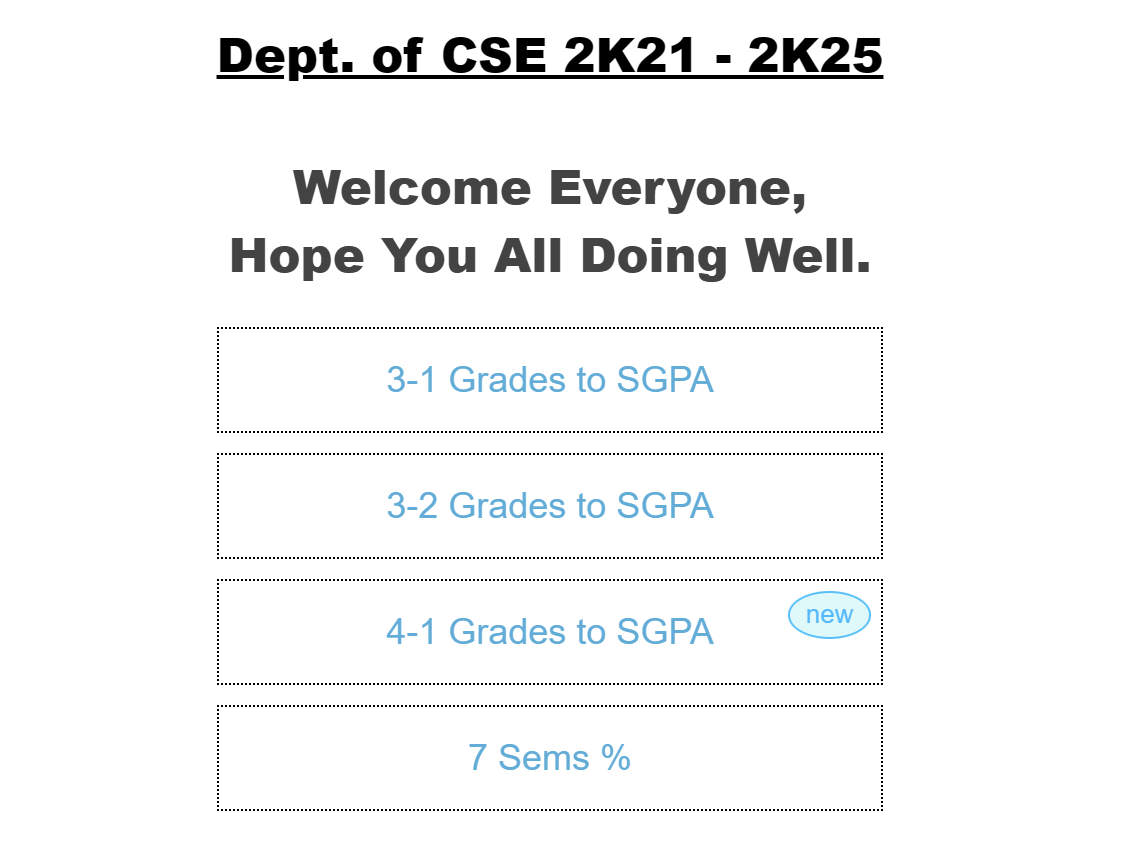
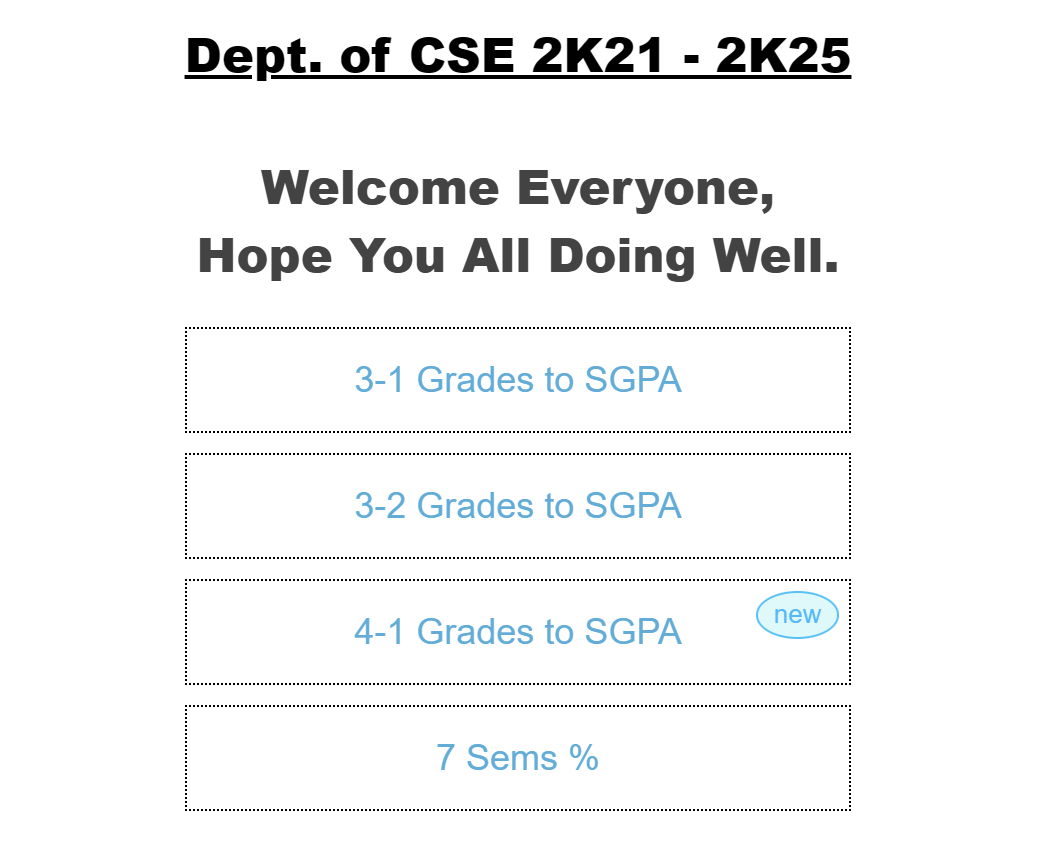
title moves to top

diff --git a/index.css b/index.css
@@ -27,7 +27,7 @@
     top: 0;
     z-index: 1000;
 
-    /* height: 17vh; */
+    height: 10vh;
 }
 
 .header .logo-img {
@@ -51,8 +51,7 @@ a {
 }
 
 .cover80 {
-    /* height: 96vh; */
-
+    height: 100vh;
     padding-block: 4rem;
 }
 
@@ -162,11 +161,23 @@ a {
     font-weight: bold;
 }
 
-.links-section .linkedin-link {
+.links-section .linkedin-link,
+.facebook-link {
     color: rgb(14, 89, 229);
 }
 
-.links-section .linkedin-link:hover {
+.links-section .instagram-link {
+    color: rgb(205, 2, 120);
+}
+
+.links-section .instagram-link:hover {
+    border-color: rgb(205, 2, 120);
+    background-color: rgb(205, 2, 120);
+    color: white;
+}
+
+.links-section .linkedin-link:hover,
+.facebook-link:hover {
     border-color: rgb(14, 89, 229);
     background-color: rgb(14, 89, 229);
     color: white;
@@ -430,6 +441,7 @@ a {
     justify-content: center;
     flex-direction: column;
 }
+
 .projects .project-cards {
     display: flex;
     flex-wrap: wrap;
@@ -438,15 +450,16 @@ a {
 }
 
 .projects .project-cards .projectCard {
-    border: 1px solid rgb(232, 231, 231);    
-    width: 300px;
-   
+    border: 1px solid rgb(232, 231, 231);
+    width: 350px;
     margin: 1rem;
-    padding: 0.5rem;
+    padding: 1rem 0.5rem 1.5rem 0.5rem;
+    box-shadow: 0 8px 30px rgba(0, 0, 0, 0.2);
 }
 
 .projectCard .img-wrapper {
     max-width: 300px;
+    margin-inline: auto;
     /* border: 1px solid red; */
 }
 
@@ -457,25 +470,43 @@ a {
 .projectCard .title {
     text-align: center;
     /* border: 1px solid rebeccapurple; */
-
+    font-size: large;
+    font-weight: 900;
     margin-block-end: 0.5rem;
     padding: 0.5rem;
-} 
+    color: saddlebrown;
+}
 
 .projectCard .links-wrapper {
     /* border: 1px solid red; */
     display: flex;
     align-items: center;
-    justify-content: space-evenly;
-  
+    justify-content: center;
+    margin-block-start: 1rem;
+
 }
 
 .projectCard .links-wrapper .link {
-    border: 1px dotted rgb(181, 179, 179);
-   padding-block: 0.3rem;
-   padding-inline: 1.2rem;
-    
-   
+    border: 0.5px solid black;
+    padding-block: 0.4rem;
+    padding-inline: 2rem;
+    font-weight: 700;
+}
+
+
+.projectCard .links-wrapper .live-btn:hover {
+    background-color: black;
+    color: white;
+}
+
+.projectCard .links-wrapper .github-btn {
+    background-color: rgb(0, 0, 0);
+    color: white;
+}
+
+.projectCard .links-wrapper .github-btn:hover {
+    background-color: white;
+    color: black;
 }
 
 

diff --git a/src/UIComponents/projectCard.js b/src/UIComponents/projectCard.js
@@ -1,26 +1,27 @@
 import gradeConverterImg from "../../assets/proj-gpaConverter.png";
 import todoListImg from "../../assets/proj-todoList.png";
+// import portfolioImg from "../../assets/proj-portfolio.png";
 import portfolioImg from "../../assets/proj-portfolio.png";
 
 
 export const projectList = [{
     index: 1,
     imgUrl: gradeConverterImg,
-    title: "GPA Converter",
+    title: "GPA CONVERTER",
     liveUrl: "https://uma03.netlify.app/",
     githubUrl: "https://github.com/umanagendrakumar/5thSemester-Grade-to-SGPA"
 },
 {
     index: 2,
     imgUrl: todoListImg,
-    title: "To-Do List With Bin",
+    title: "T0-DO LIST WITH BIN",
     liveUrl: "https://uma-todolist.netlify.app/",
     githubUrl: "https://github.com/umanagendrakumar/Todo_List"
 },
 {
     index: 3,
     imgUrl: portfolioImg,
-    title: "My Portfolio",
+    title: "MY PORTFOLIO",
     liveUrl: "https://kunk-portfolio.netlify.app/",
     githubUrl: "https://github.com/umanagendrakumar/MyPortfolio"
 }
@@ -30,13 +31,13 @@ export const projectList = [{
 const Card = ({ imgUrl, title, liveUrl, githubUrl }) => {
     return (
         <div className="projectCard">
+            <div className="title">{title}</div>
             <div className="img-wrapper">
                 <img src={imgUrl} className="img" alt="Project image"></img>
             </div>
-            <div className="title">{title}</div>
             <div className="links-wrapper">
-                <a href={liveUrl} className="link live-btn">Live</a>
-                <a href={githubUrl} className="link github-btn">Github</a>
+                <a href={liveUrl} className="link live-btn">LIVE</a>
+                <a href={githubUrl} className="link github-btn">GITHUB</a>
             </div>
         </div>
     );
